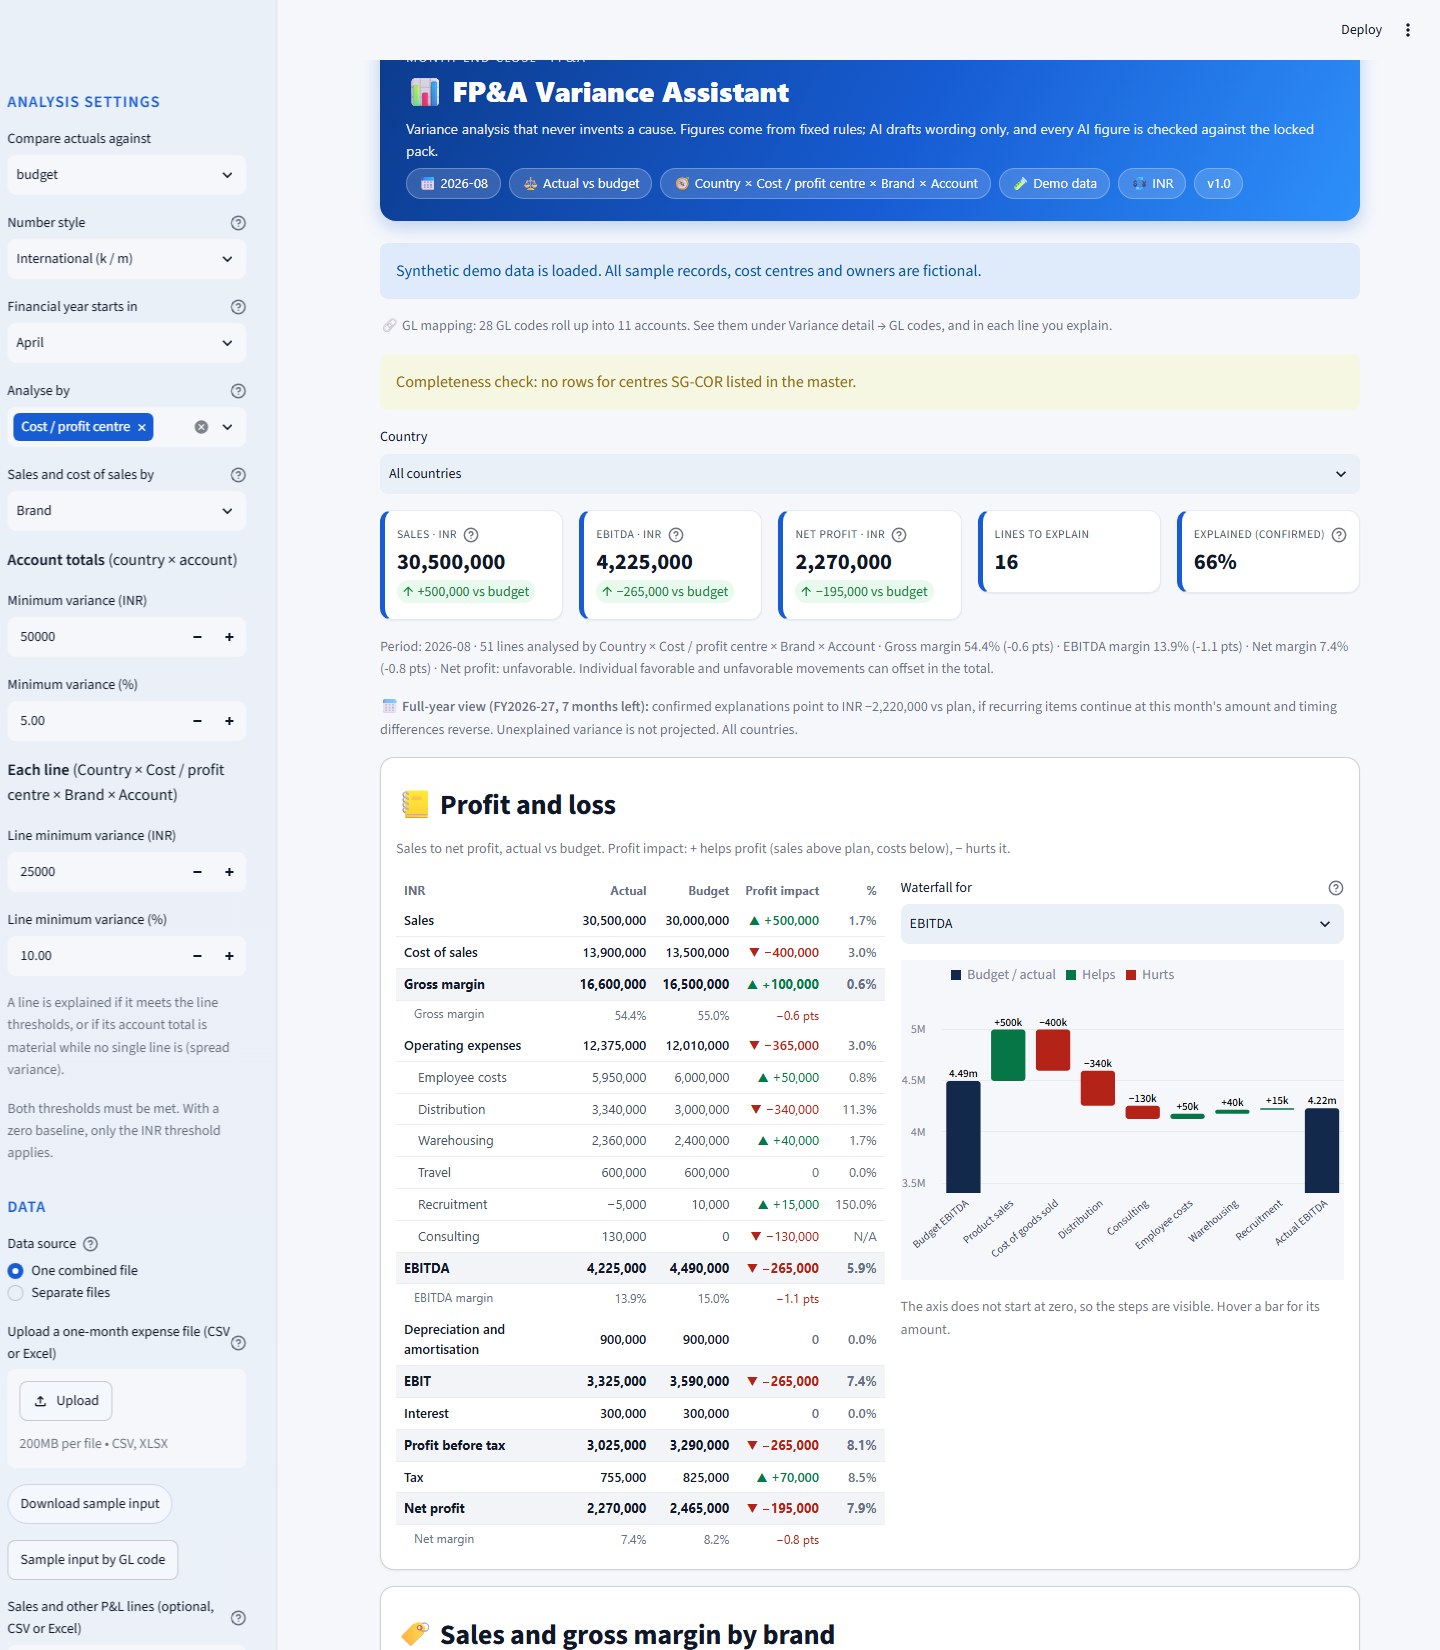
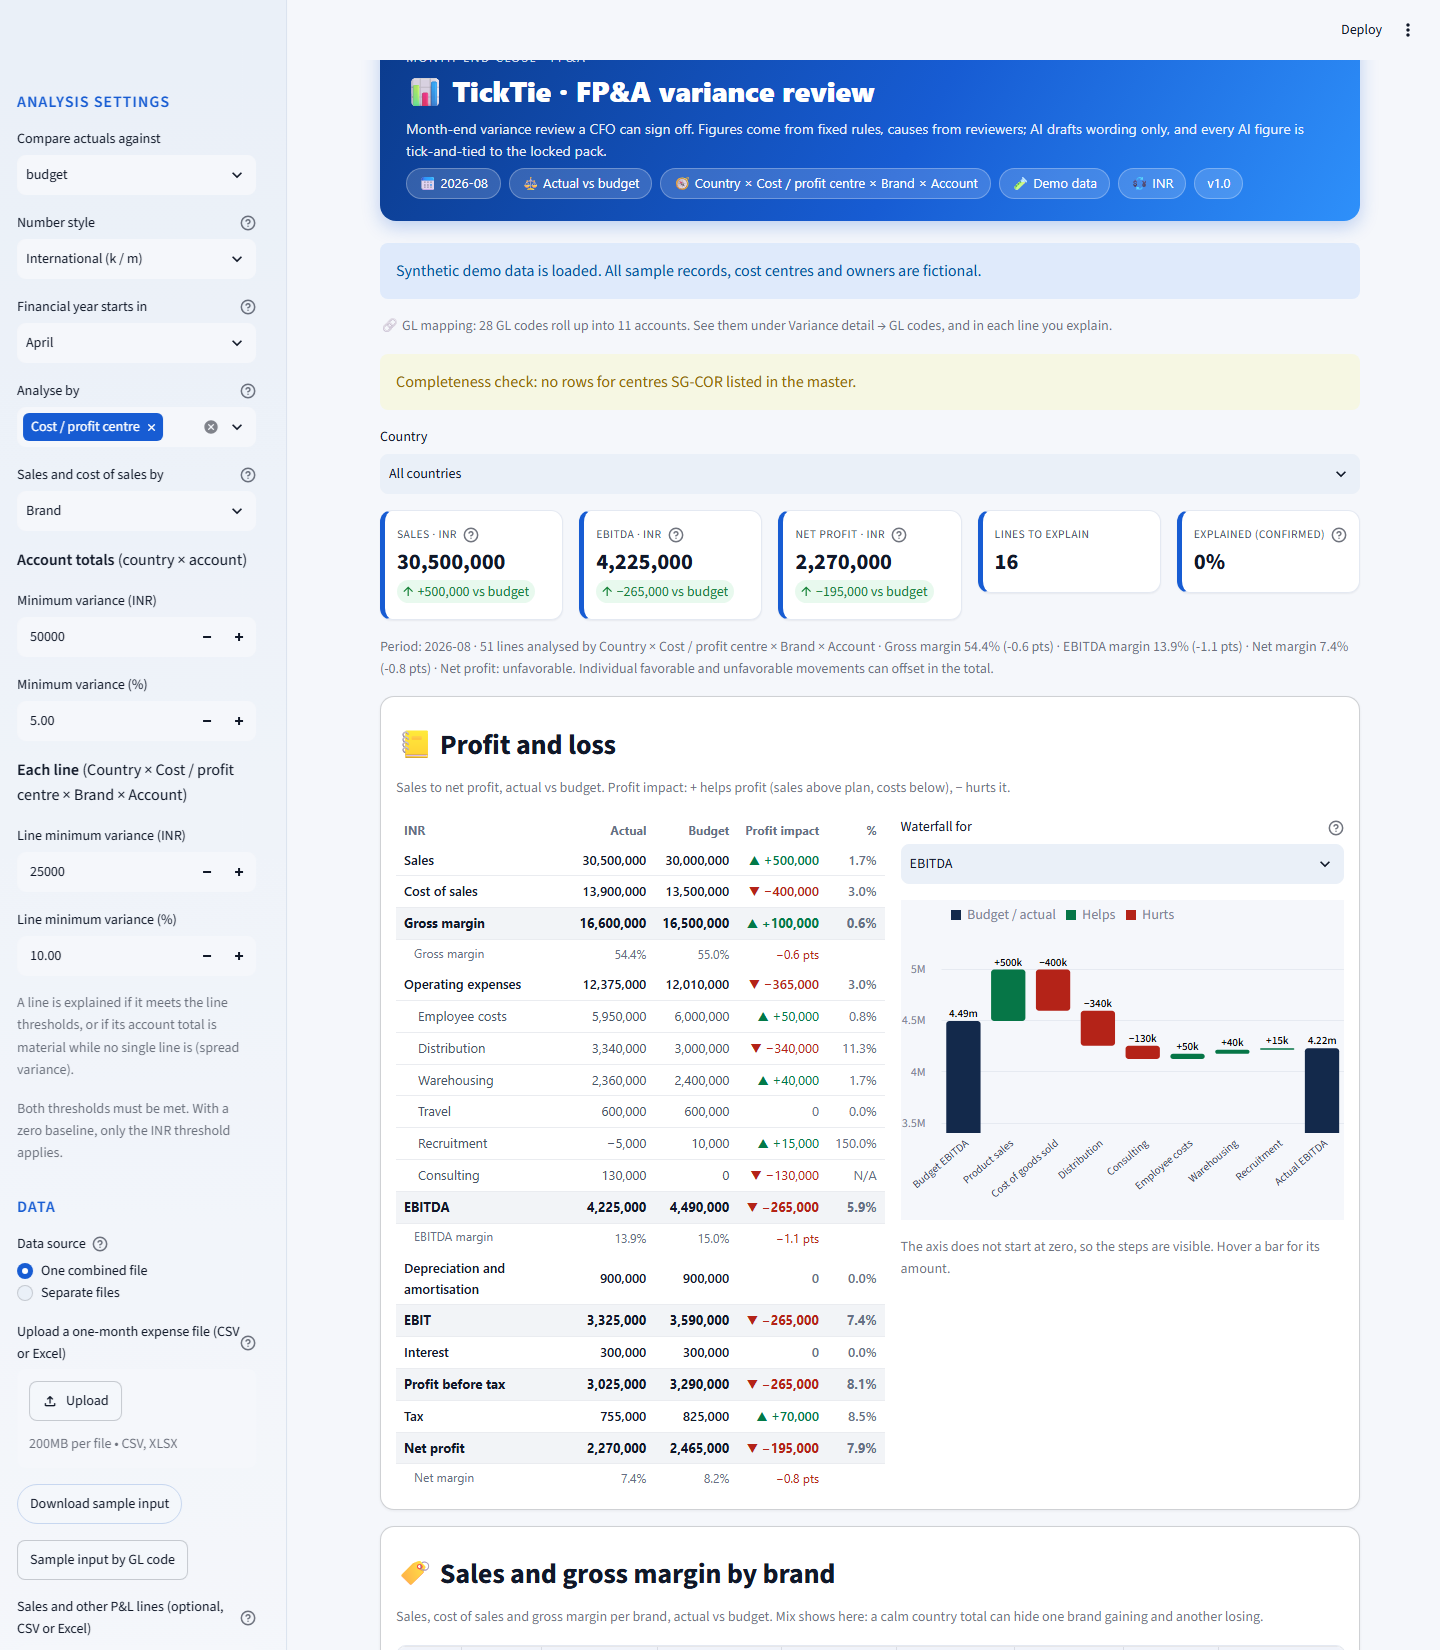
Rename to TickTie: FP&A variance review a CFO can sign off
New name in the app, README, roadmap and case study; links point to casaikiran93-maker/ticktie-fpa and ticktie-fpa.streamlit.app.

diff --git a/app.py b/app.py
@@ -22,7 +22,7 @@ from notes_panel import excel_roundtrip, notes_table, show_bulk_errors
 import pandas as pd
 from style import apply_style, colour_table, hero, money_columns, section
 
-st.set_page_config(page_title='FP&A Variance Assistant', page_icon='📊', layout='wide')
+st.set_page_config(page_title='TickTie · FP&A variance review', page_icon='📊', layout='wide')
 apply_style()
 hero_box = st.container()  # filled once the data is known
 
@@ -239,9 +239,9 @@ material = [r for r in result if r['material']]
 current_pack = build_pack(rows, baseline, *line_thresholds, st.session_state.business_notes, total_thresholds, fy_start,
                           inputs.get('data_log'))
 with hero_box:
-    hero('FP&A Variance Assistant',
-         'Variance analysis that never invents a cause. Figures come from fixed rules; AI drafts wording only, '
-         'and every AI figure is checked against the locked pack.',
+    hero('TickTie · FP&A variance review',
+         'Month-end variance review a CFO can sign off. Figures come from fixed rules, causes from reviewers; AI drafts '
+         'wording only, and every AI figure is tick-and-tied to the locked pack.',
          [f"📅 {rows[0]['month']}", f'⚖ Actual vs {baseline}', f'🧭 {level_name}',
           '🧪 Demo data' if inputs['demo'] else '📂 Uploaded data', '💱 INR', 'v1.0'])
 in_scope = [l for l in current_pack['lines'] if l['material'] and in_view(l)]

diff --git a/README.md b/README.md
@@ -1,15 +1,17 @@
-# FP&A Variance Assistant
+# TickTie: FP&A variance review a CFO can sign off
 
-[![tests](https://github.com/casaikiran93-maker/fpa-variance-assistant/actions/workflows/tests.yml/badge.svg)](https://github.com/casaikiran93-maker/fpa-variance-assistant/actions/workflows/tests.yml)
+[![tests](https://github.com/casaikiran93-maker/ticktie-fpa/actions/workflows/tests.yml/badge.svg)](https://github.com/casaikiran93-maker/ticktie-fpa/actions/workflows/tests.yml)
 [![License: MIT](https://img.shields.io/badge/license-MIT-blue.svg)](LICENSE)
 ![Python 3.12 | 3.13](https://img.shields.io/badge/python-3.12%20%7C%203.13-blue)
-[![Live demo](https://img.shields.io/badge/live%20demo-streamlit-ff4b4b)](https://fpa-variance-assistant.streamlit.app)
+[![Live demo](https://img.shields.io/badge/live%20demo-streamlit-ff4b4b)](https://ticktie-fpa.streamlit.app)
 
 **Month-end variance analysis that never invents a cause.** Upload actuals, budget and forecast, by GL code, cost centre, profit centre and SKU. The tool validates the data, calculates every variance in exact decimal arithmetic, flags what is material and asks the owners to explain it. Then two AI agents turn the locked review into CFO commentary and a 12-slide PowerPoint deck. **The AI never calculates a figure, and every figure it writes is tick-and-tied back to the locked pack by plain code.**
 
+*Why "TickTie"? To tick and tie is the accountant's check that every figure in a report traces back to its source. Here code does it to every sentence the AI writes.*
+
 ## Try it
 
-**[▶ Open the live demo](https://fpa-variance-assistant.streamlit.app)**. No sign-up and no API key: it runs on synthetic data, with AI answers recorded from a local model and labelled as such. Click **Load demo explanations**, then **Lock review pack**, then **Draft CFO commentary and deck**. The [walkthrough](docs/WALKTHROUGH.md) gives the figures to expect at each step.
+**[▶ Open the live demo](https://ticktie-fpa.streamlit.app)**. No sign-up and no API key: it runs on synthetic data, with AI answers recorded from a local model and labelled as such. Click **Load demo explanations**, then **Lock review pack**, then **Draft CFO commentary and deck**. The [walkthrough](docs/WALKTHROUGH.md) gives the figures to expect at each step.
 
 ![The review screen: P&L tiles, statement and EBITDA waterfall](docs/images/app_overview.png)
 

diff --git a/docs/ROADMAP.md b/docs/ROADMAP.md
@@ -1,4 +1,4 @@
-# Roadmap: FP&A Variance Assistant → CFO Review Pack
+# Roadmap: TickTie (FP&A variance review → CFO pack)
 
 Living plan for turning the v0.2 prototype into a portfolio project: variances → reviewer-supplied reasons → AI-compiled commentary → CFO-ready slides.
 
@@ -137,7 +137,7 @@ Decisions: explanations at cost centre × account and rolled up; the user choose
 | --- | --- | --- |
 | Language | Python 3.13 | ✅ installed |
 | Version control | Git (via GitHub Desktop, or install Git for Windows to use `git` in a terminal) | ✅ GitHub Desktop; `git` not on PATH |
-| Hosting code | GitHub account + repo `casaikiran93-maker/fpa-variance-assistant` | ✅ |
+| Hosting code | GitHub account + repo `casaikiran93-maker/ticktie-fpa` | ✅ |
 | UI | Streamlit 1.64 | ✅ |
 | Editor / AI pair | VS Code, Claude Code | ✅ |
 | Data handling | `decimal` (stdlib); pandas optional for Excel/charts | ✅ pandas present |

diff --git a/docs/CASE_STUDY.md b/docs/CASE_STUDY.md
@@ -1,4 +1,4 @@
-# Case study: AI commentary a CFO can rely on
+# Case study: TickTie, AI commentary a CFO can rely on
 
 ## The problem
 
